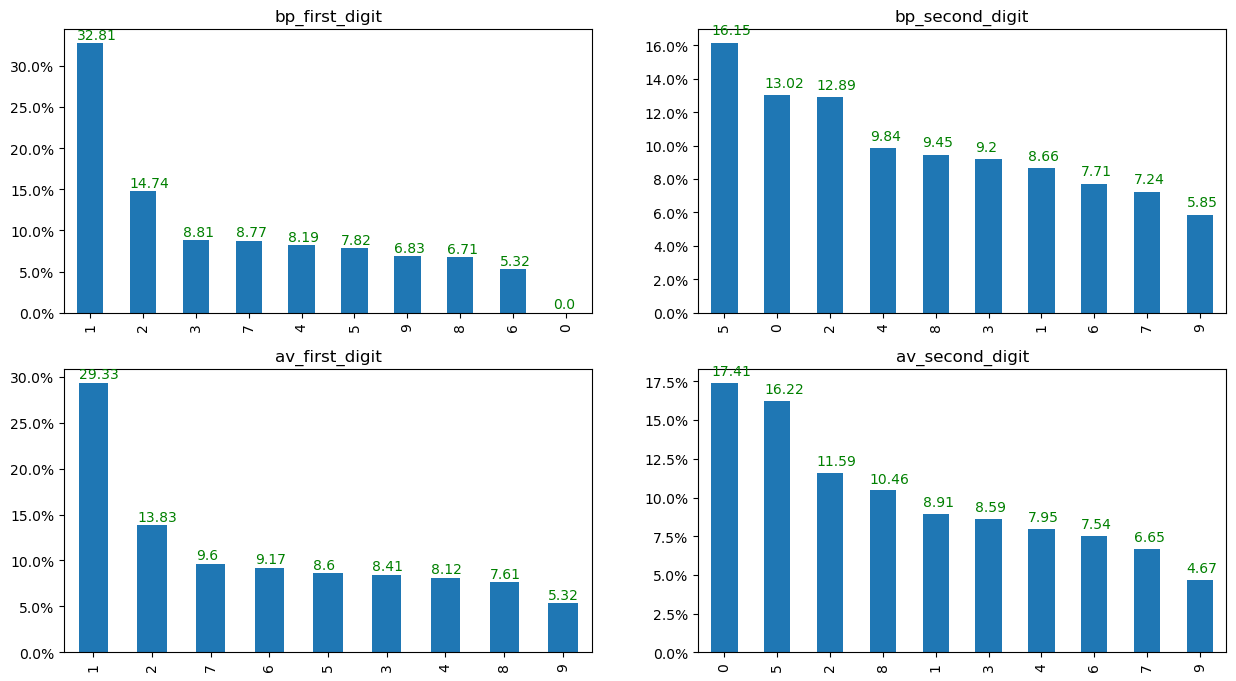
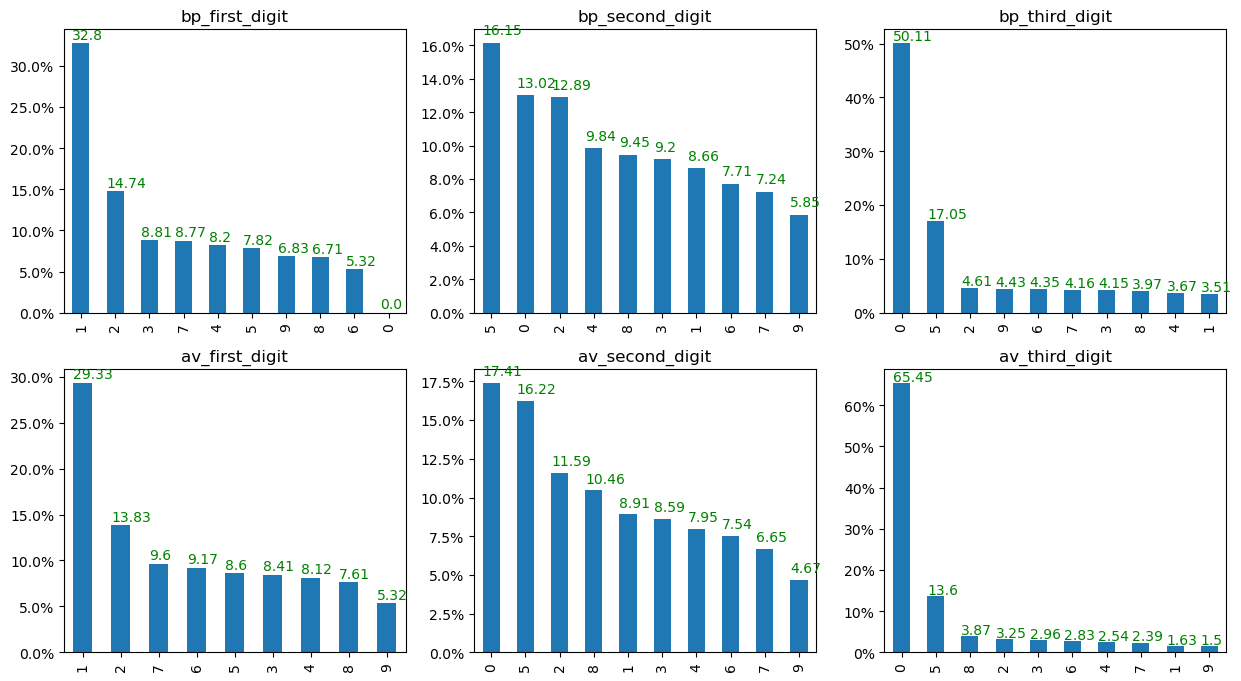
Add 3rd Digit plot

Changed region(s): [[0.0307, 0.0, 1.0, 0.9868], [0.1537, 0.0, 0.3074, 0.0308]]

diff --git a/main.py b/main.py
@@ -15,8 +15,10 @@ df = df[(df != 0).all(1)]
 df = df.astype('str')
 df['bp_first_digit'] = df.base_price.str.extract('(\d)')
 df['bp_second_digit'] = df.base_price.str.extract('(\d\d)')
+df['bp_third_digit'] = df.base_price.str.extract('(\d\d\d)')
 df['av_first_digit'] = df.assessed_value.str.extract('(\d)')
 df['av_second_digit'] = df.assessed_value.str.extract('(\d\d)')
+df['av_third_digit'] = df.assessed_value.str.extract('(\d\d\d)')
 
 # drop nan columns
 df.dropna(axis=0, inplace=True)
@@ -24,22 +26,24 @@ df.dropna(axis=0, inplace=True)
 # replace column with 2nd digit
 df.bp_second_digit = df.bp_second_digit.astype('int') % 10
 df.av_second_digit = df.av_second_digit.astype('int') % 10
+df.bp_third_digit = df.bp_third_digit.astype('int') % 10
+df.av_third_digit = df.av_third_digit.astype('int') % 10
 
-print(df[:10])
+print(df.head())
 
 # %% Plot Columns
 # convert columns to int
-df_digits = df[['bp_first_digit', 'bp_second_digit', 'av_first_digit', 'av_second_digit']].astype('int') \
-    .reset_index(drop=True)
+df_digits = df[['bp_first_digit', 'bp_second_digit', 'bp_third_digit', 'av_first_digit',
+                'av_second_digit', 'av_third_digit']].astype('int').reset_index(drop=True)
 
 # get length of dataframe
 length, width = df_digits.shape
 
-columns1 = np.array(df_digits.columns[:2])
-columns2 = np.array(df_digits.columns[2:])
+columns1 = np.array(df_digits.columns[:3])
+columns2 = np.array(df_digits.columns[3:])
 arr = [columns1, columns2]
 
-fig, axs = plt.subplots(2, 2, figsize=(15, 15))
+fig, axs = plt.subplots(2, 3, figsize=(15, 15))
 
 
 def plotting(col, i, j):
@@ -54,14 +58,17 @@ def plotting(col, i, j):
 
 
 for i in range(len(arr)):
-    for j in range(len(arr)):
+    for j in range(len(arr[i])):
         print(f'{i}, {j}')
         plotting(arr[i][j], i, j)
 
 plt.savefig('Initial Benford.png', bbox_inches="tight")
 
 # %%
-
+columns1 = np.array(df_digits.columns[:3])
+columns2 = np.array(df_digits.columns[3:])
+arr = [columns1, columns2]
+print(len(arr))
 
 # print(df.isna().sum())
 # print(df.dtypes)
